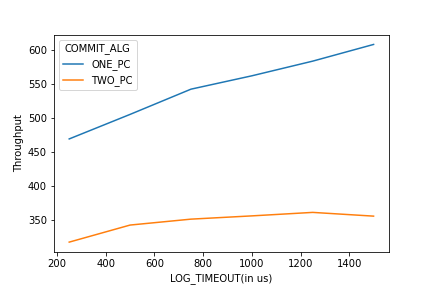
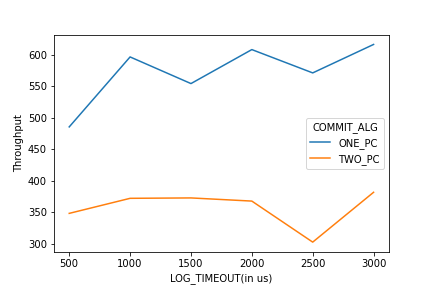
try local no commit, rerun pr

diff --git a/system/txn.cpp b/system/txn.cpp
@@ -929,8 +929,8 @@ TxnManager::process_2pc_commit_phase(RC rc)
 #endif
 #if LOG_ENABLE
     // Logging
-    if ( (is_all_local_readonly() && 
-            (is_all_remote_readonly() || remote_nodes_involved.size() == 0) ) == false
+    if ( 
+            (is_all_remote_readonly() || remote_nodes_involved.size() == 0)  == false
             ) {  // for host node only log YES, no COMMIT for readonly
         log(type);
     }
@@ -1031,8 +1031,8 @@ TxnManager::process_2pc_commit_phase(RC rc)
 {
 
 #if LOG_ENABLE
-    if ( (is_all_local_readonly() && 
-            (is_all_remote_readonly() || remote_nodes_involved.size() == 0) ) == false
+    if ( 
+            (is_all_remote_readonly() || remote_nodes_involved.size() == 0)  == false
             ) {    // for host node only log YES, no COMMIT for readonly, or a completely local txn
     _commit_start_time = get_sys_clock();
         // Logging
